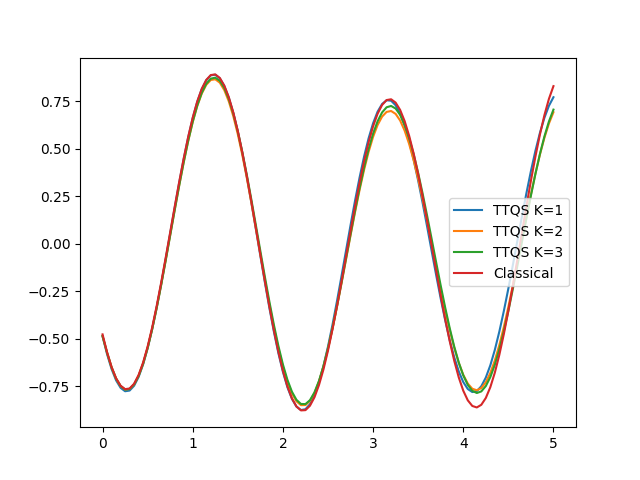
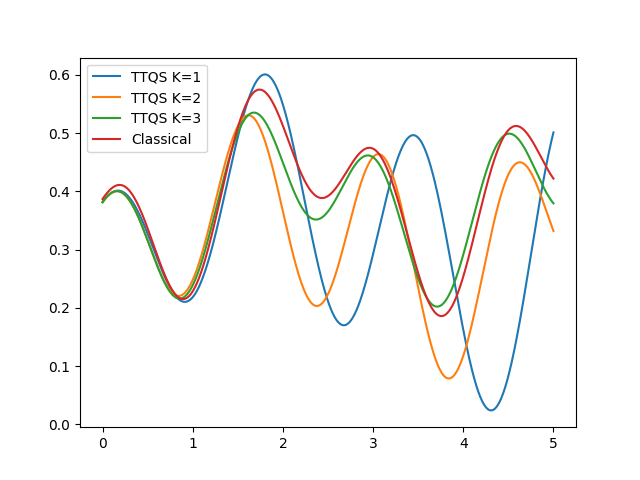
Minor stuff

diff --git a/Forjontoteststuff.py b/Forjontoteststuff.py
@@ -13,11 +13,11 @@ warnings.filterwarnings("ignore", category=DeprecationWarning)
 uptowhatK = 3
 num_qubits = 2
 endtime = 5
-num_steps = 101
+num_steps = 1001
 optimizer = 'eigh'
 inv_cond = 10**(-3)
 numberoflayers = 2
-randomseedforinitialstate = 183
+randomseedforinitialstate = 183#183 #873
 
 #create initial state
 initial_state = acp.Initialstate(num_qubits, "TFI_hardware_inspired", randomseedforinitialstate, numberoflayers)
@@ -29,8 +29,8 @@ hub, group, project = "ibm-q-nus", "default", "reservations"
 quantum_com = "ibmq_bogota" 
 
 #Other parameters for running on the quantum computer
-sim = "noiseless_qasm" #"noisy_qasm" #"noiseless_qasm"
-num_shots = 8000
+sim = "noisy_qasm"# #"noisy_qasm" #"noiseless_qasm"
+num_shots = 10000
 
 quantum_computer_choice_results = qhf.choose_quantum_computer(hub, group, project, quantum_com)
 # mitigate_meas_error = True
@@ -113,7 +113,7 @@ cS_instance.evaluate()
 
 #Observable we want to plot
 times = TTQS_instance.get_times()
-observable = hcp.generate_arbitary_observable(num_qubits, [1], ["20"]) 
+observable = hcp.generate_arbitary_observable(num_qubits, [1], ["10"]) 
 
 #What Ks we want to plot
 whatK = [1,2,3]
